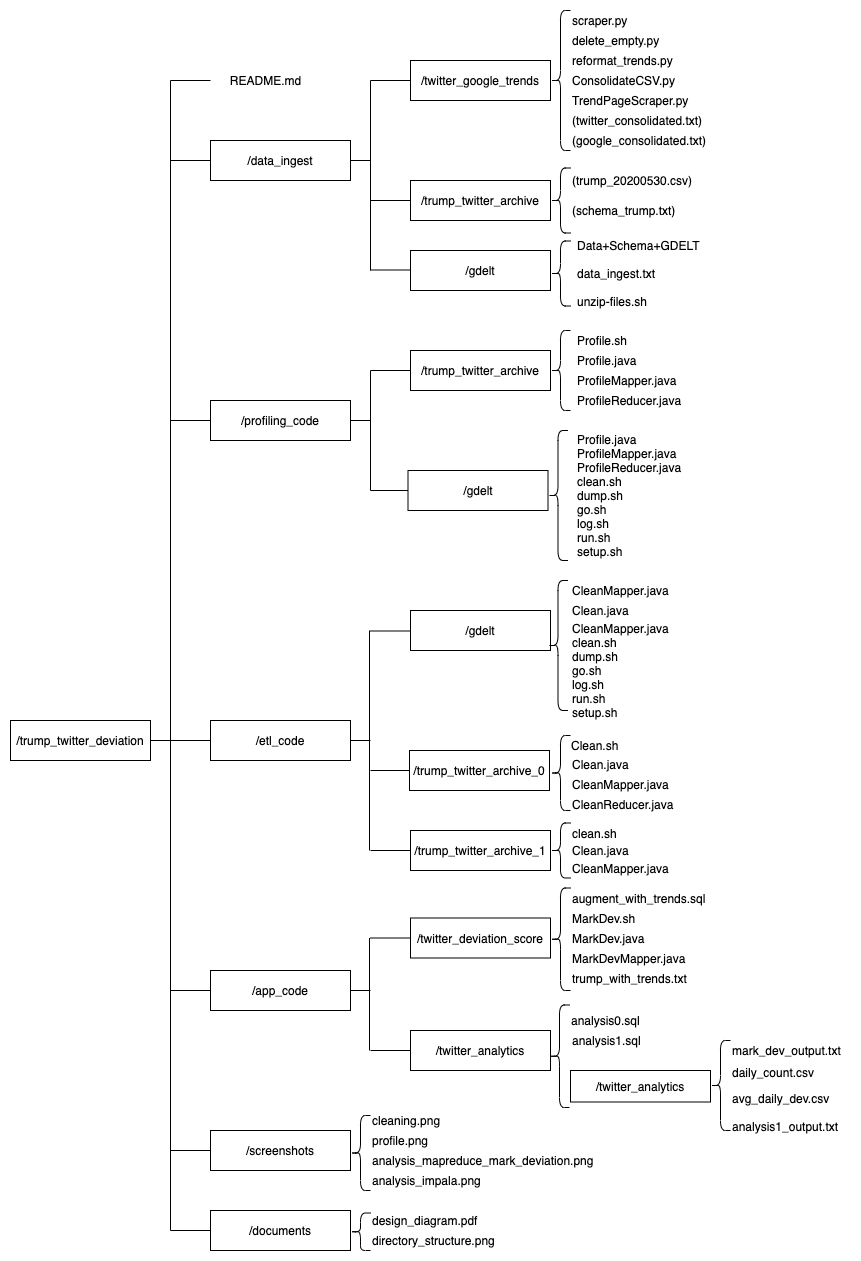
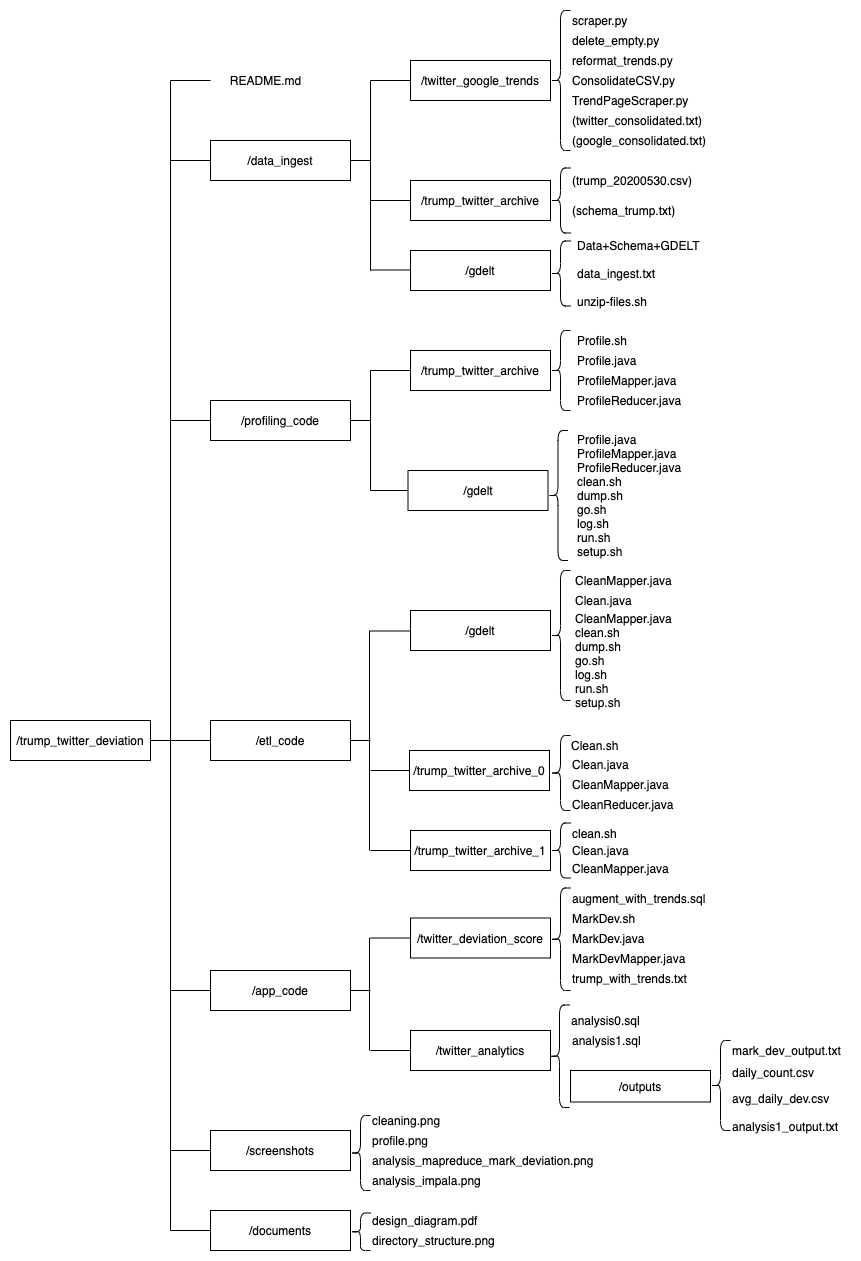
update diagram and readme

Changed region(s): [[0.6341, 0.433, 0.7851, 0.5876], [0.6945, 0.8351, 0.7851, 0.866]]

diff --git a/README.md b/README.md
@@ -67,9 +67,9 @@ In the same directory, ```schema_trump.txt``` describes the dataset.
 
 Please move this file to HDFS using the ```hdfs dfs -put``` command. We refer to this file as "TRUMP_COMPLETE" and the path to this file as "/path/to/TRUMP_COMPLETE" in this document for convenience. 
 
-### Profiling
+### Trump Twitter Profiling
 
-1. Navigate to ```profiling_code```. There should be 4 files in the directory, ```Profile.java Profile.sh ProfileMapper.java ProfileReducer.java```. 
+1. Navigate to ```/profiling_code/trump_twitter_archive/```. There should be 4 files in the directory, ```Profile.java Profile.sh ProfileMapper.java ProfileReducer.java```. 
 2. Open ```Profile.sh``` in your favorite editor. change the output directory of the ```hdfs dfs -mkdir``` command to desired destination (line 10). 
 3. Change the destination of the ```hdfs dfs -put``` command to desired location (line 11). Please also make sure the input directory (path to ```trump_20200530.csv```) is correct. 
 4. Modify the input and output arguments in line 13 (```hadoop jar Profile.jar ...```) according to previous steps. 
@@ -81,7 +81,7 @@ Please move this file to HDFS using the ```hdfs dfs -put``` command. We refer to
 
 ### Data Cleaning 0
 
-1. Navigate to ```/etl_code/trump_clean0/```. There should be 4 files in the directory, ```Clean.java Clean.sh CleanMapper.java CleanReducer.java```
+1. Navigate to ```/etl_code/trump_twitter_archive_0/```. There should be 4 files in the directory, ```Clean.java Clean.sh CleanMapper.java CleanReducer.java```
 2. Make the same modifications to ```Clean.sh``` as the ones made to ```Profile.sh``` in the previous section. 
 3. Execute the bash script
 ```
@@ -92,7 +92,7 @@ Please move this file to HDFS using the ```hdfs dfs -put``` command. We refer to
 
 ### Data Cleaning 1
 
-1. Navigate to ```/etl_code/trump_clean1/```. There should be 3 files in the directory, ```Clean.java Clean.sh CleanMapper.java```
+1. Navigate to ```/etl_code/trump_twitter_archive_1/```. There should be 3 files in the directory, ```Clean.java Clean.sh CleanMapper.java```
 2. Follow the same procedure in the previous section - "Data Cleaning 0" to execute this MapReduce job
 3. The output file has the format "tweet_id  data  keywords" that contains the keywords of each tweet. 
 4. We refer to the output of this job as "TRUMP_KEYWORDS" for convenience.
